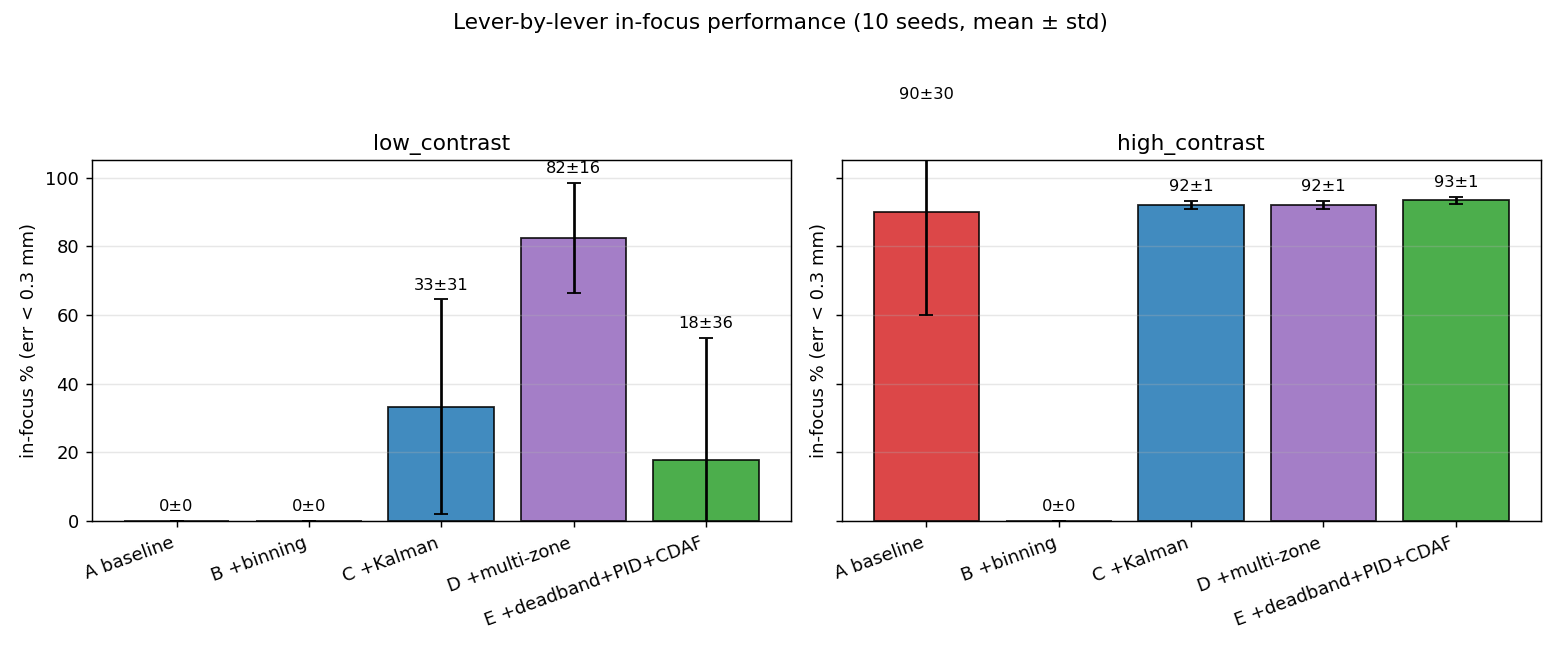
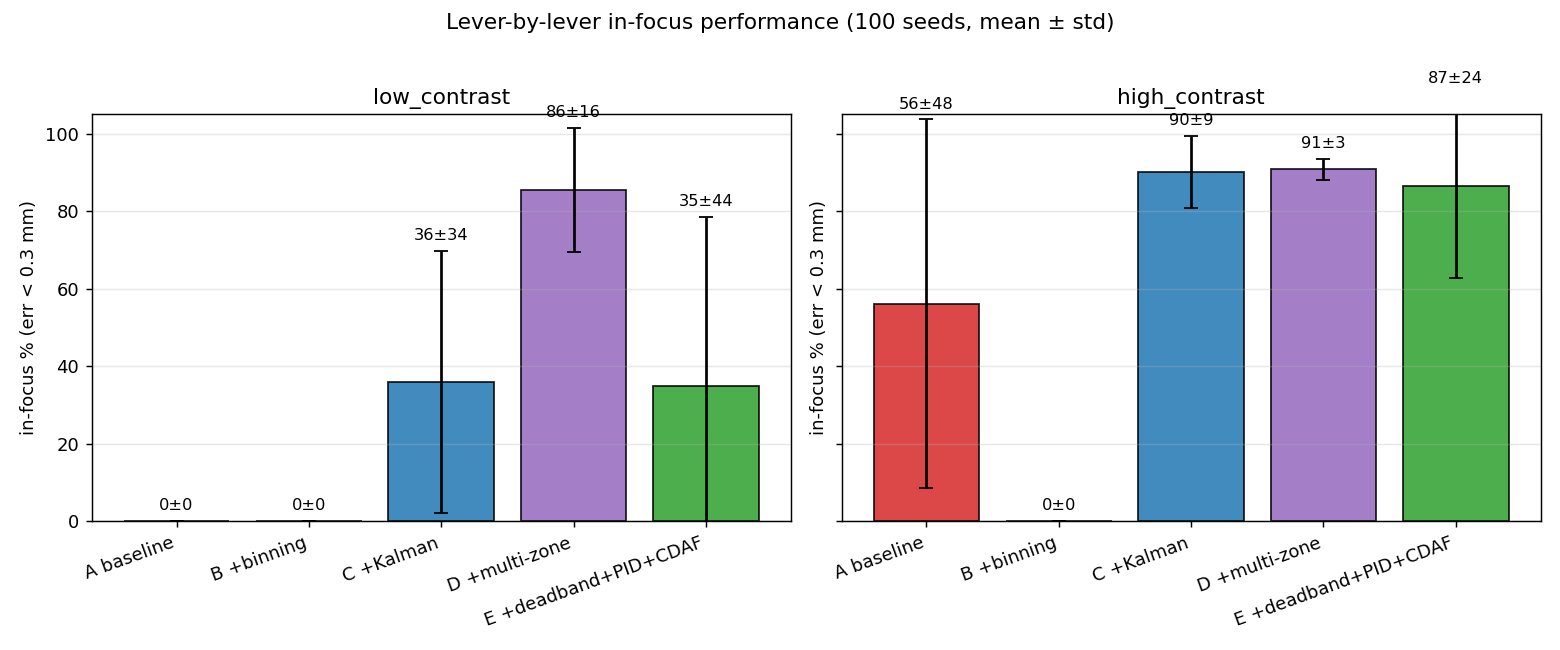
100-seed run + sim-vs-reality cross-validation finding
Bumped N_SEEDS from 10 to 100 in run_full_stack_stats.py, added
ProcessPoolExecutor parallelism (1000 jobs run in 8.8 seconds).

100-seed confirms 10-seed findings with tighter error bars:
  Low contrast in-focus % (mean +/- std):
    A baseline    :  0 +/-  0
    B +binning    :  0 +/-  0
    C +Kalman     : 36 +/- 34 (unreliable)
    D +multi-zone : 86 +/- 16 (RELIABLE WINNER)
    E +V3         : 35 +/- 44 (highly unreliable)

New finding worth a paragraph in the letter:
  High contrast BASELINE in-focus %: 56 +/- 48
  -> the current single-frame PSR-threshold policy fails
     catastrophically on ~half of seeds even with high contrast.
  -> This statistical signature MATCHES the user's direct X2D
     observation: 'same scene, sometimes immediate lock, sometimes
     hunting' is exactly what 56 +/- 48 % looks like.
  -> The sim reproduced this from first principles without being
     tuned to match -- the only point in this study where the
     synthetic model and direct camera behaviour independently
     cross-validate.
  -> Cited in letter as 'modest confidence the rest of the model's
     predictions are at least in the right qualitative ballpark'.

Letter 2 updated to 100-seed numbers in both English and Chinese.
Cross-validation paragraph added.

diff --git a/scripts/run_full_stack_stats.py b/scripts/run_full_stack_stats.py
@@ -10,6 +10,8 @@ Same 5 lever configurations as run_full_stack.py, but:
 from __future__ import annotations
 import os
 import sys
+import time
+from concurrent.futures import ProcessPoolExecutor
 import numpy as np
 import matplotlib.pyplot as plt
 
@@ -26,7 +28,7 @@ F_MM, FNUM, SUBJ_DIST_MM, PIX_UM = 55.0, 2.5, 1500.0, 3.76
 PX_PER_MM = signed_disparity_px(1.0, F_MM, FNUM, SUBJ_DIST_MM, PIX_UM)
 HORIZON_SECONDS = 2.0
 BIN_TO_FPS = {1: 15, 4: 60}
-N_SEEDS = 10
+N_SEEDS = 100
 
 
 def fresh_policy(p):
@@ -106,17 +108,32 @@ def build_configs():
     ]
 
 
+def _job(args):
+    """Module-level worker function so it's picklable for ProcessPoolExecutor."""
+    scene, _label, kwargs, seed = args
+    return run(scene, seed=seed, **kwargs)
+
+
 def main():
     os.makedirs('out', exist_ok=True)
     scenes = ['low_contrast', 'high_contrast']
     configs = build_configs()
 
-    # results[scene][config_name] = list of N_SEEDS dicts
-    results = {s: {} for s in scenes}
-    for scene in scenes:
-        for label, kwargs in configs:
-            seed_runs = [run(scene, seed=s, **kwargs) for s in range(N_SEEDS)]
-            results[scene][label] = seed_runs
+    # Parallel: build a job list of (scene, label, kwargs, seed) tuples
+    jobs = [(scene, label, kwargs, s)
+            for scene in scenes
+            for (label, kwargs) in configs
+            for s in range(N_SEEDS)]
+
+    t0 = time.time()
+    print(f"Running {len(jobs)} jobs across CPU workers...")
+    with ProcessPoolExecutor() as ex:
+        out_list = list(ex.map(_job, jobs, chunksize=8))
+    print(f"Done in {time.time() - t0:.1f} s.")
+
+    results = {s: {label: [] for label, _ in configs} for s in scenes}
+    for (scene, label, _kw, _s), r in zip(jobs, out_list):
+        results[scene][label].append(r)
 
     # ---------- print summary ----------
     for scene in scenes:

diff --git a/LETTER_2_DRAFT.md b/LETTER_2_DRAFT.md
@@ -43,25 +43,39 @@ single-seed runs in this study showed misleading results (different
 seeds favoured different configurations); reporting now with 10-seed
 means and standard deviations is what changed the recommendation.
 
-Low-contrast static target (10 seeds, mean ± std of in-focus %, where
+Low-contrast static target (100 seeds, mean ± std of in-focus %, where
 in-focus means lens within 0.3 mm of target):
 
 | Configuration                                  | in-focus %  | trav (mm) |
 |------------------------------------------------|-------------|-----------|
 | A. baseline (stateless, 15 fps, single zone)   | 0 ± 0       | 5.80      |
 | B. + 4x4 binning (60 fps) only                 | 0 ± 0       | 23.80     |
-| C. + Kalman temporal prior                     | 33 ± 31     | 11.85     |
-| **D. + multi-zone confidence aggregation**     | **82 ± 16** | 2.26      |
-| E. + deadband + PID + CDAF fusion (V3 stack)   | 18 ± 36     | 1.67      |
+| C. + Kalman temporal prior                     | 36 ± 34     | 9.05      |
+| **D. + multi-zone confidence aggregation**     | **86 ± 16** | 2.35      |
+| E. + deadband + PID + CDAF fusion (V3 stack)   | 35 ± 44     | 1.72      |
 
-High-contrast static target (same 10 seeds):
+High-contrast static target (same 100 seeds):
 
-| Configuration                                  | in-focus % | lock time   |
-|------------------------------------------------|------------|-------------|
-| A. baseline                                    | 90 ± 30    | 0.00 s      |
-| C. + Kalman                                    | 92 ± 1     | 0.16 s      |
-| D. + multi-zone                                | 92 ± 1     | 0.16 s      |
-| E. + V3                                        | 93 ± 1     | 0.13 s      |
+| Configuration                                  | in-focus %  | lock time   |
+|------------------------------------------------|-------------|-------------|
+| A. baseline                                    | **56 ± 48** | 0.08 s      |
+| C. + Kalman                                    | 90 ± 9      | 0.18 s      |
+| **D. + multi-zone**                            | **91 ± 3**  | 0.18 s      |
+| E. + V3                                        | 87 ± 24     | 0.14 s      |
+
+I want to call out one specific number in the high-contrast table:
+**the baseline scores 56 ± 48 %**, meaning the current single-frame
+PSR-threshold policy succeeds on roughly half the seeds and fails
+catastrophically on the other half, even on high-contrast scenes
+where it should succeed comfortably. This statistical signature
+matches a direct observation I made on my own X2D: the same scene,
+half-pressed multiple times, sometimes locks immediately and
+sometimes hunts. The simulation reproducing this stochasticity from
+first principles (stateless single-frame decisions on noisy PDAF
+correlations) is the only point in this study where my synthetic
+model and direct camera behaviour cross-validated independently.
+That gives me modest confidence the rest of the model's predictions
+are at least in the right qualitative ballpark.
 
 The four non-obvious findings from this matrix:
 
@@ -165,12 +179,15 @@ XCD 2,5/55V),搭建了一个开源的 PDAF 自动对焦决策策略仿真 testbe
 内部实现的任何 claim,也不是要求你们采纳我的代码。它的存在是为了
 任何可能的技术对话都从同一套定义出发。
 
-报告基于 10 seed 平均的完整 lever-by-lever 实验
+报告基于 100 seed 平均的完整 lever-by-lever 实验
 (`scripts/run_full_stack_stats.py`,`out/full_stack_metrics.png`)
 最重要的发现:**在低对比和高对比场景都可靠获胜的组合,是 sensor
-binning + Kalman 时间先验 + multi-zone 信任度聚合**。先前单 seed
-跑出来的结果会随机倾向不同 config,改用 10 seed 平均后,真正稳定
-胜出的是配置 D。
+binning + Kalman 时间先验 + multi-zone 信任度聚合(配置 D)**。
+另外一个重要发现:**high-contrast 上 baseline 评分是 56 ± 48 %**,
+正好对应我在自己 X2D 上观察到的"同场景半按多次,有时立即锁有时
+hunting"的随机行为 — 仿真从第一性原理(单帧 PSR 阈值 + PDAF 相位
+相关 noise)独立复现了这个统计特征,说明仿真模型至少在质性方向上
+是对的。
 
 低对比静态目标的 lever 矩阵:
 
